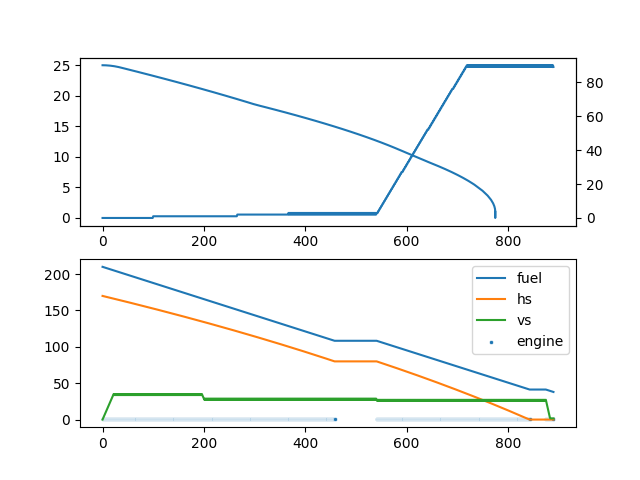
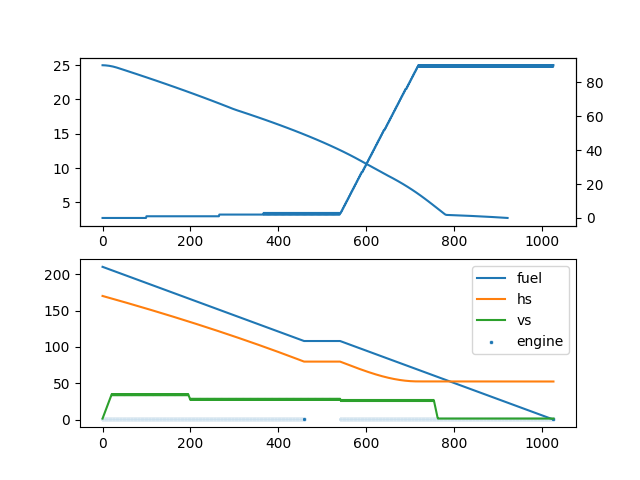
fix break

diff --git a/Bereshit.py b/Bereshit.py
@@ -24,12 +24,12 @@ f_angle = interp1d(X1, Y1, kind='cubic')  # hs -> angle
 X3 = np.array(
     [0, 0.5, 1, 1.5, 2, 2.5, 3, 3.5, 4, 4.5, 5, 5.5, 6, 6.5, 7, 8])*1e5  # distance
 Y3 = np.array(
-    [25000, 23333, 21667, 20000, 18333, 16667, 15000, 13333, 11667, 10000, 8333, 6667, 5000, 900, 100, 0])  # altitude
+    [25000, 23333, 21667, 20000, 18333, 16667, 15000, 13333, 11667, 10000, 8333, 6667, 2000, 1000, 100, 0])  # altitude
 f3_trajectory = interp1d(X3, Y3, kind='cubic')  # distance -> alt
 
 X4 = np.array(
-    [1700.00, 1586.67, 1473.33, 1360.00, 1246.67, 1133.33, 1020.00, 906.67, 793.33, 680.00, 566.67, 40.33, 30.00,
-     20, 10, 0])  # hs
+    [1700.00, 1586.67, 1473.33, 1360.00, 1246.67, 1133.33, 1000, 800, 500, 60, 50, 4, 3,
+     0.2, 0.1, 0])  # hs
 Y4 = np.array([0, 3, 6, 9, 12, 15, 18, 21, 46, 47, 48, 49, 40, 50, 88, 90])  # angle
 f4_angle = interp1d(X4, Y4, kind='cubic')  # hs -> angle
 
@@ -60,7 +60,7 @@ class Bereshit():
         self.time = 0
         self.altitude = ALT0
         self.fuel = 420 * 0.5
-        self.vertical_speed = 0.0
+        self.vertical_speed = 1.6
         self.horizontal_speed = V0
         self.distance = 0.0
         self.angle = 0.0
@@ -312,10 +312,19 @@ class Bereshit():
                 f'{self.time}, {self.altitude}, {self.fuel}, {self.vertical_speed}, {self.horizontal_speed}, {self.distance}, {self.angle}, {int(self.engine_is_on)}\n')
 
             # , time, altitude, fuel, verticalSpeed, horizontalSpeed, distance, angle)
-            self.time += dt  # 1 sec pear loop
-            dx = self.horizontal_speed + self.acc_x * dt
+            self.time += dt  # 1 sec per loop
+
+            self.horizontal_speed += (self.acc_x * dt)
+            if self.horizontal_speed < 0:
+                self.horizontal_speed = 0
+
+            self.vertical_speed += (self.acc_y * dt)
+            if self.vertical_speed < 1.6:
+                self.vertical_speed = 1.6
+
+            dx = self.horizontal_speed
             self.distance += dx
-            dy = self.vertical_speed + self.acc_y * dt
+            dy = self.vertical_speed
             self.altitude -= math.fabs(dy)
 
             if self.distance < 800e3:
@@ -328,7 +337,7 @@ class Bereshit():
                 print(target_altitude, self.altitude)
 
                 if target_altitude < self.altitude or self.altitude > 5:
-                    self.breaks1()
+                    self.breaks()
                 else:
                     self.gas()
             else:
@@ -366,14 +375,6 @@ class Bereshit():
             elif self.angle <= 0:
                 self.angle = 0
 
-            self.horizontal_speed += self.acc_x
-            if self.horizontal_speed < 0:
-                self.horizontal_speed = 0
-
-            self.vertical_speed += self.acc_y
-            if self.vertical_speed < 1.6:
-                self.vertical_speed = 1.6
-
             if self.fuel <= 0 < self.altitude:
                 print("Oooops... I've crashed!.")
                 break
@@ -385,13 +386,10 @@ class Bereshit():
         self.engines_off()
 
     def breaks(self):
-        self.acc_x = -(MAIN_ENGINE_TRUST + SIDE_ENGINE_TRUST * NUM_SIDE_ENGINE) / self.weight
-        self.engines_on()
+        breaks = -(MAIN_ENGINE_TRUST + SIDE_ENGINE_TRUST * NUM_SIDE_ENGINE) / self.weight
+        self.acc_x = breaks * math.cos(math.radians(self.angle))
+        self.acc_y = breaks * math.sin(math.radians(self.angle))
 
-    def breaks1(self):
-        self.acc_x = -(MAIN_ENGINE_TRUST + SIDE_ENGINE_TRUST * NUM_SIDE_ENGINE) / self.weight
-        self.acc_x = self.acc_x * math.cos(math.radians(self.angle))
-        self.acc_y = -(1.6 * math.sin(math.radians(self.angle)))
         self.engines_on()
 
     def engines_on(self):
